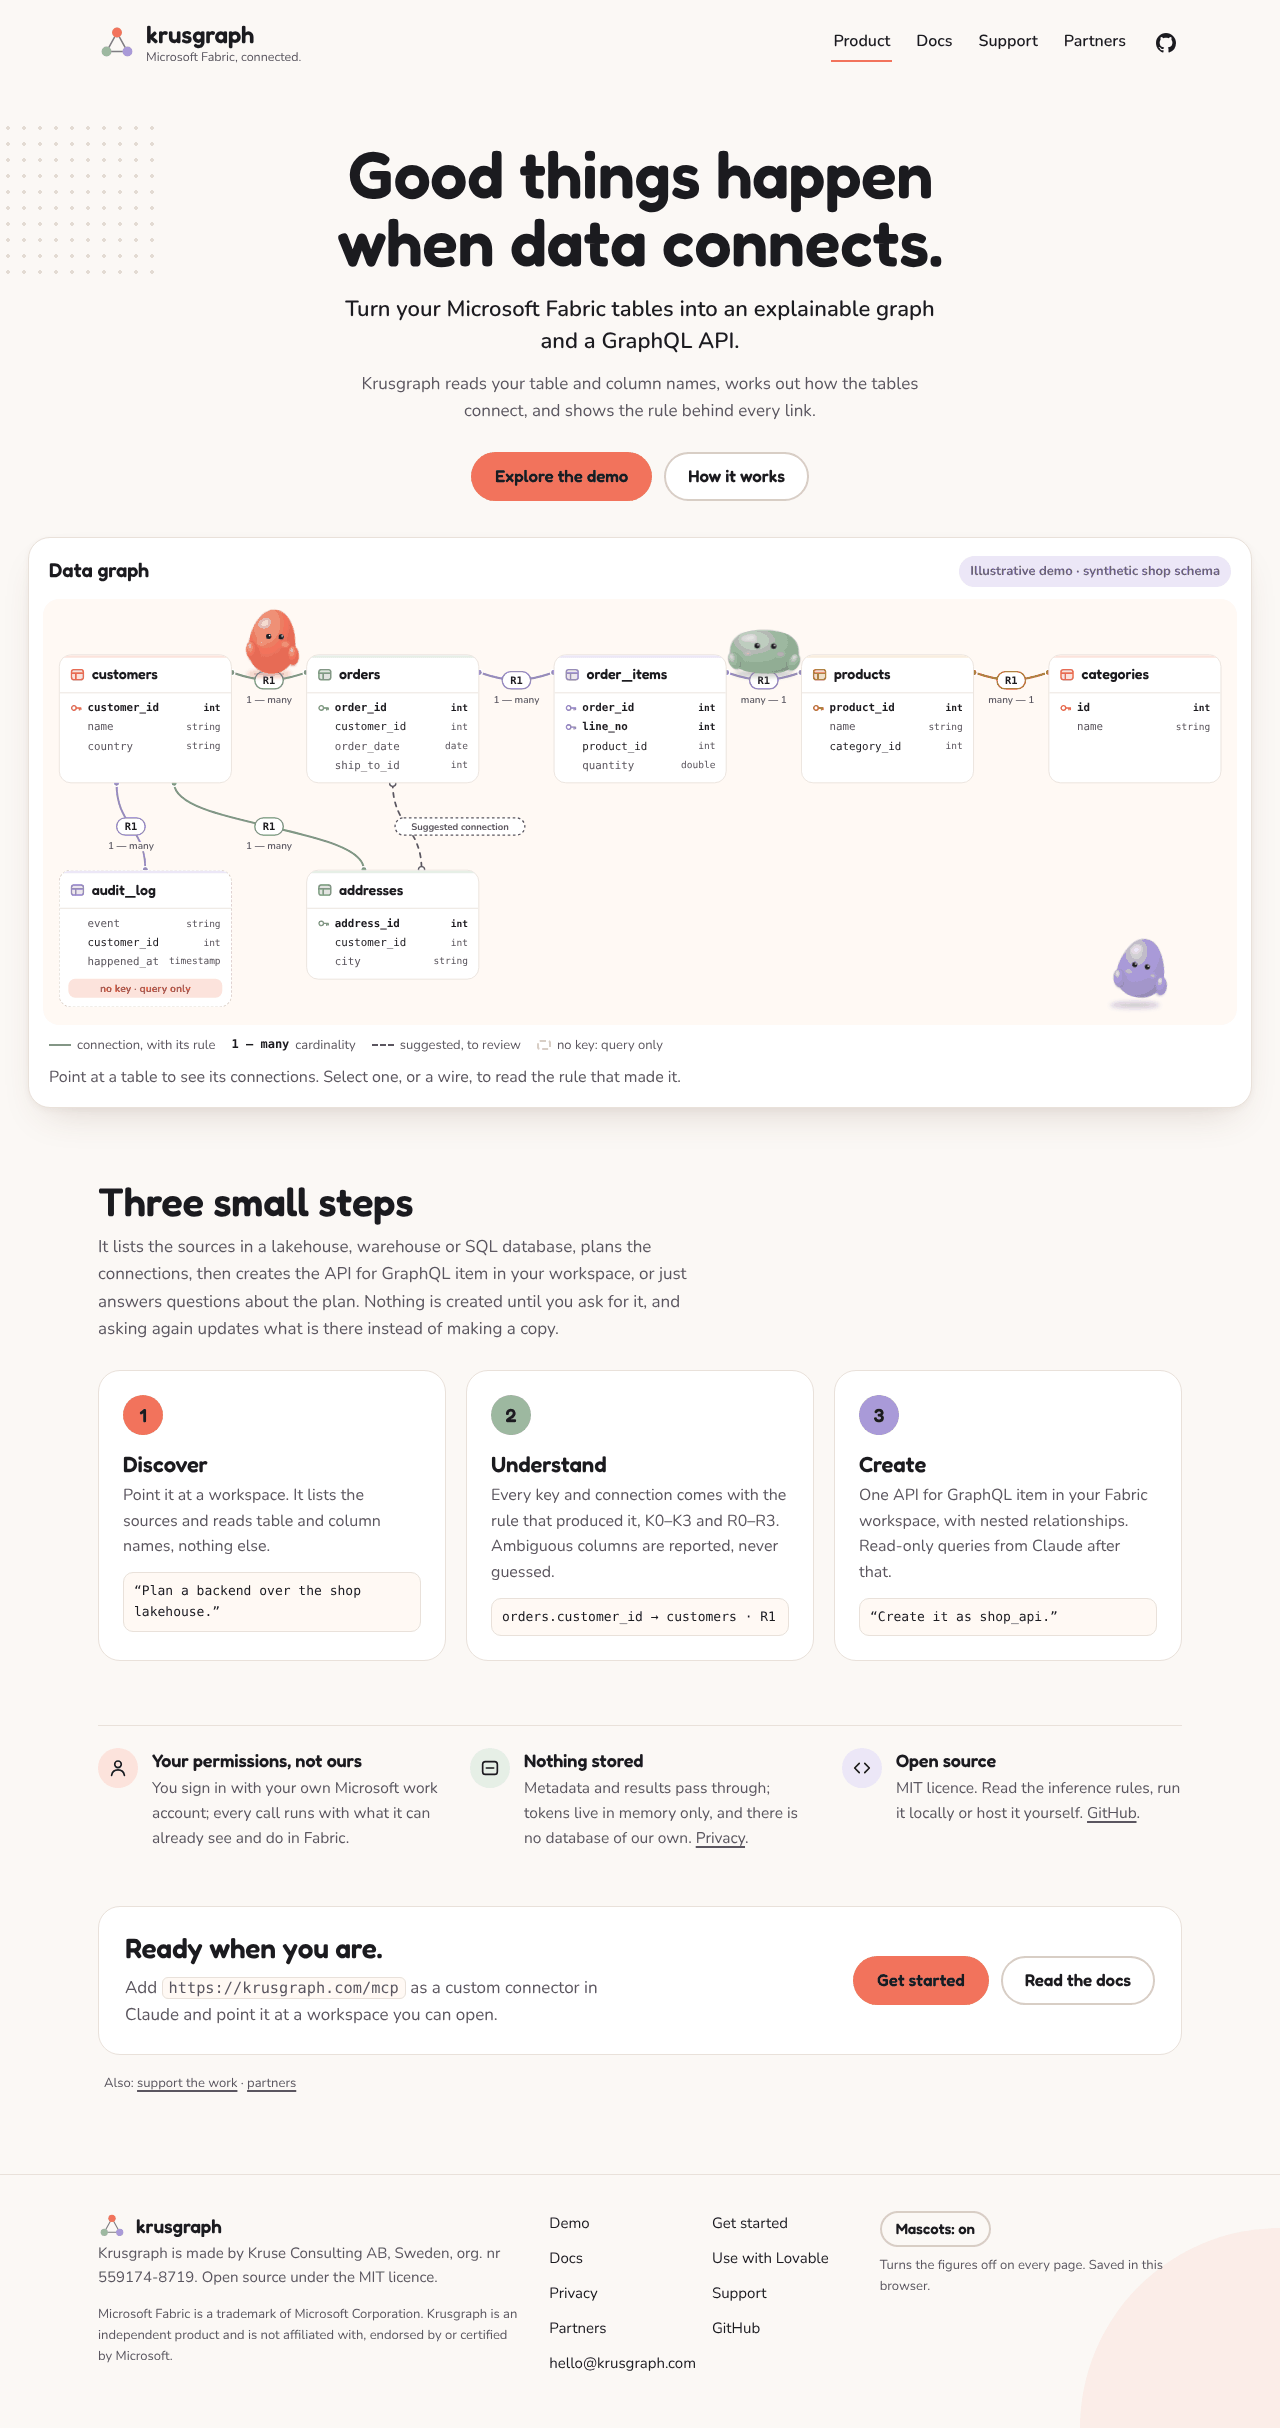
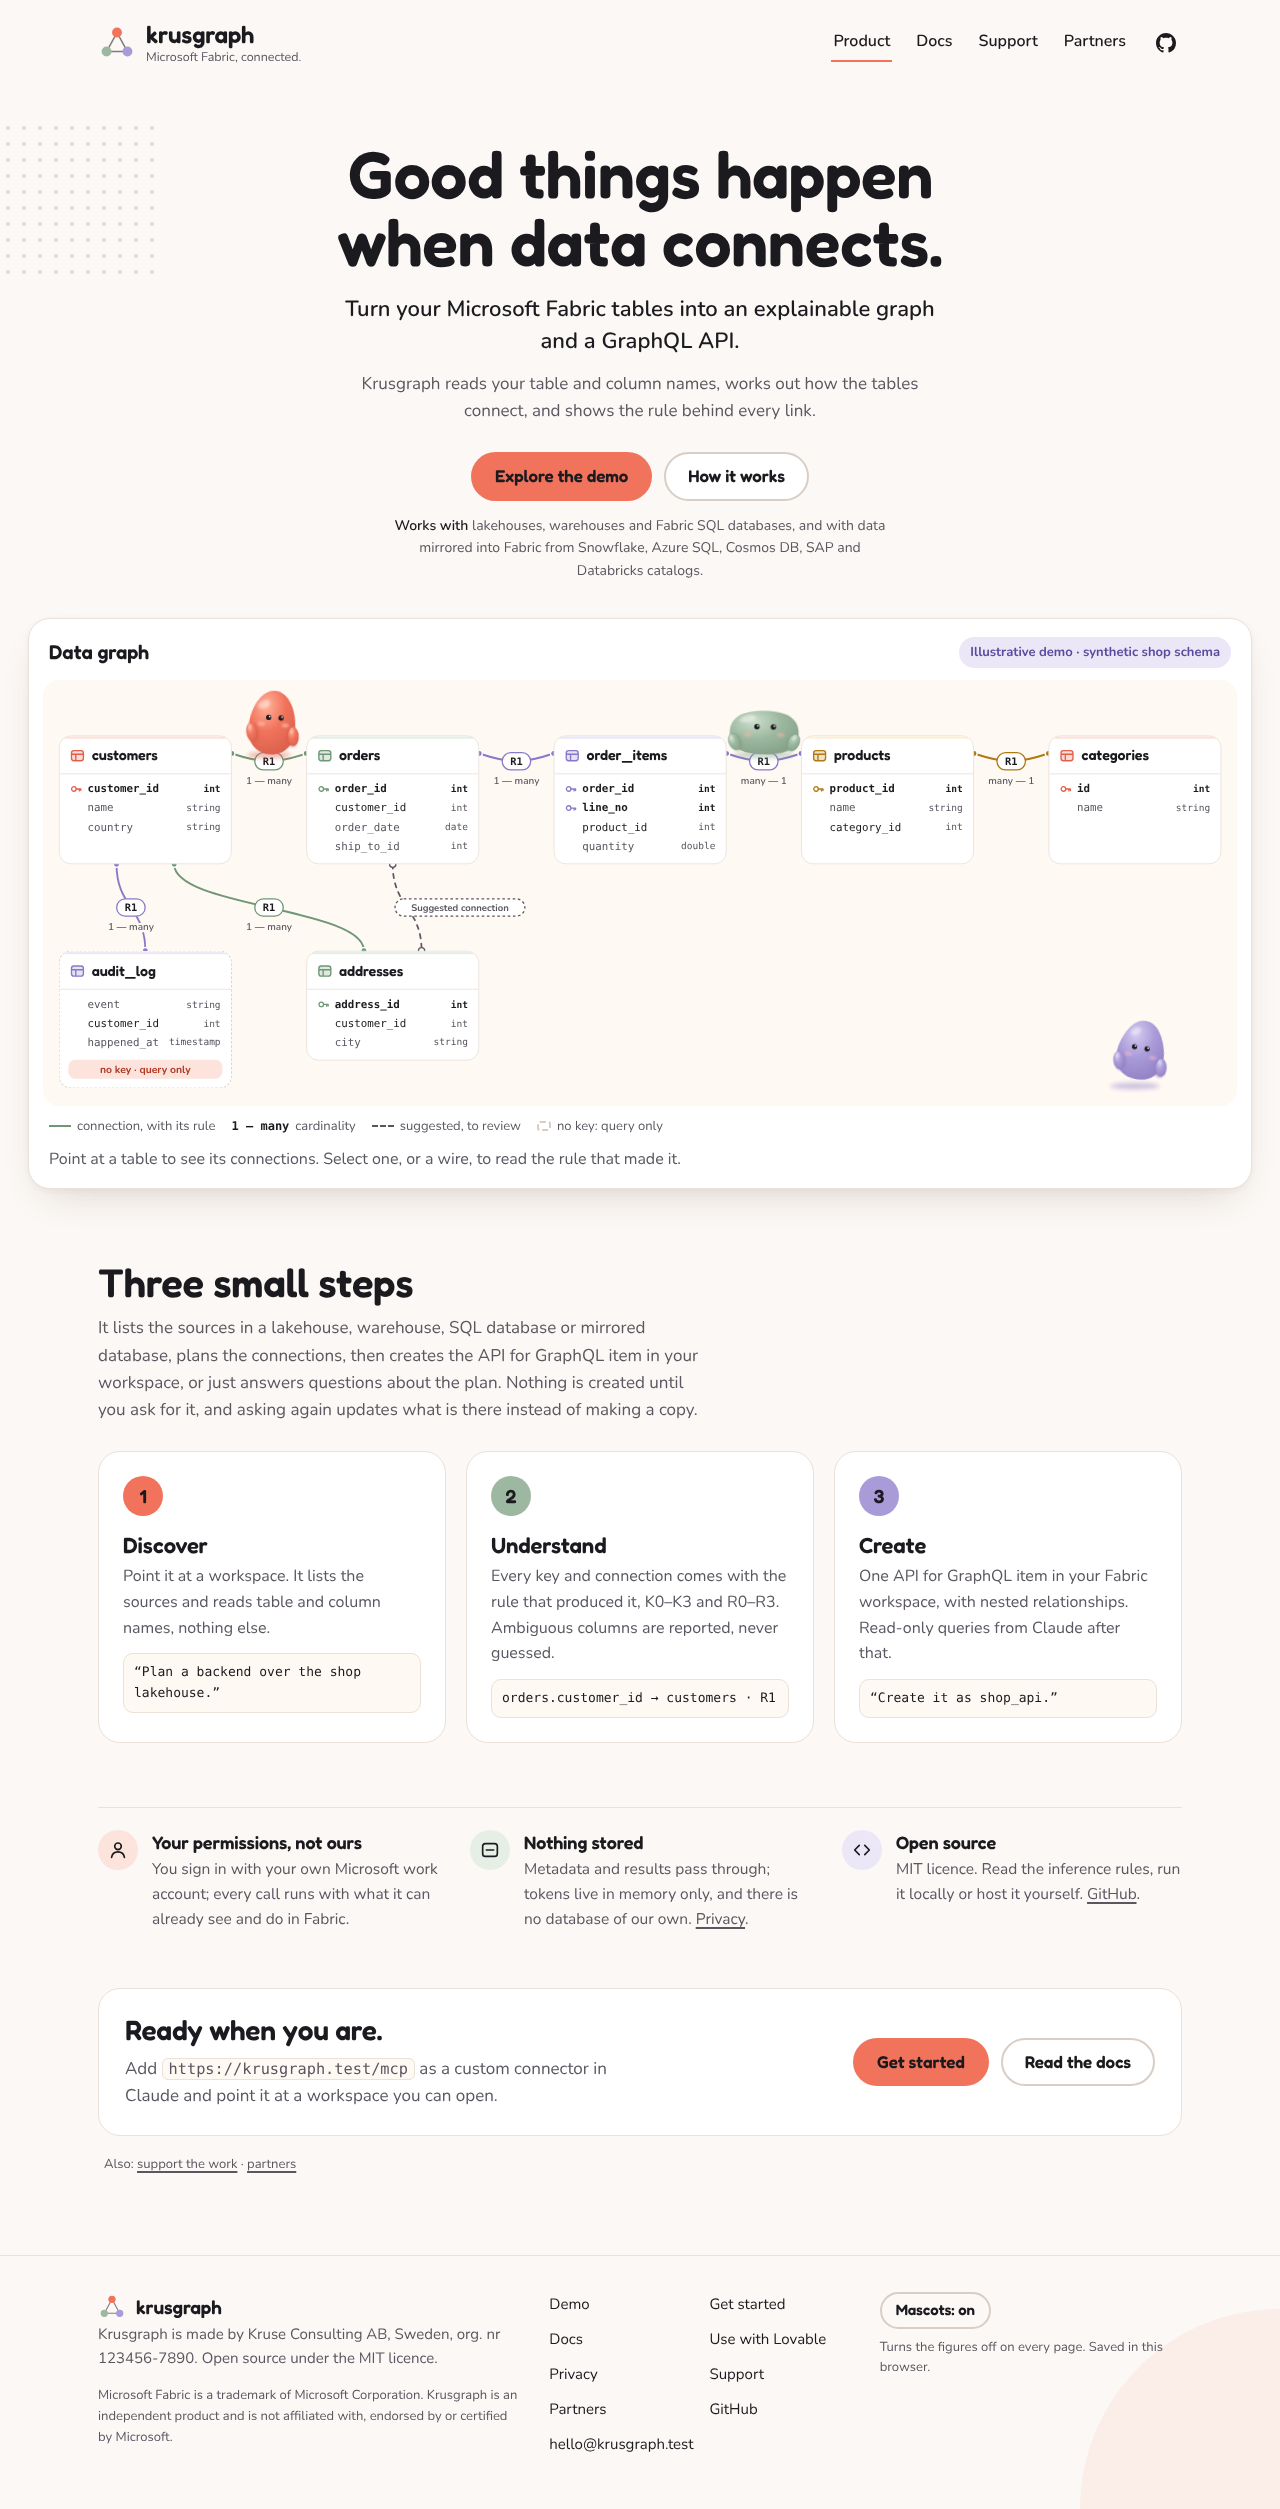
Home: sources line, and the graph scrolls inside its card on phones
The hero names what the connector works with (lakehouses, warehouses, Fabric
SQL databases, and data mirrored into Fabric from Snowflake, Azure SQL, Cosmos
DB, SAP and Databricks catalogs); the three-steps text says "or mirrored
database". On narrow screens the home graph, which stacks every table in one
lane, is capped at 68vh and scrolls inside its card with a soft fade and a link
to the full demo, so the landing page keeps its rhythm (4 638 → ~3 900 px at
390 wide). Browser checks green; home screenshots refreshed.

diff --git a/fabric_backend/page_templates/home.html b/fabric_backend/page_templates/home.html
@@ -8,6 +8,7 @@
       <a class="btn primary" href="/explore">Explore the demo</a>
       <a class="btn secondary" href="#how">How it works</a>
     </div>
+    <p class="sources-line"><b>Works with</b> lakehouses, warehouses and Fabric SQL databases, and with data mirrored into Fabric from Snowflake, Azure SQL, Cosmos DB, SAP and Databricks catalogs.</p>
   </div>
   <div class="wrap wide">
     <div class="graph-panel hero-panel">
@@ -18,6 +19,7 @@
       <div id="home-graph" class="graph"></div>
       <p class="legend"><span><i></i> connection, with its rule</span><span><b class="mono">1 — many</b> cardinality</span><span><i class="sug"></i> suggested, to review</span><span><i class="box"></i> no key: query only</span></p>
       <p id="home-why" class="why-line" aria-live="polite">Point at a table to see its connections. Select one, or a wire, to read the rule that made it.</p>
+      <p class="muted tiny graph-more">Scroll inside the graph, or <a href="/explore">open the full demo</a>.</p>
       <p class="muted tiny" style="margin:4px 6px 0" data-plan-error hidden>The demo plan could not be loaded. The graph needs JavaScript and <a href="/demo/plan.json">/demo/plan.json</a>.</p>
     </div>
   </div>
@@ -25,7 +27,7 @@
 
 <section class="wrap" id="how">
   <h2>Three small steps</h2>
-  <p class="intro">It lists the sources in a lakehouse, warehouse or SQL database, plans the connections, then creates the API for GraphQL item in your workspace, or just answers questions about the plan. Nothing is created until you ask for it, and asking again updates what is there instead of making a copy.</p>
+  <p class="intro">It lists the sources in a lakehouse, warehouse, SQL database or mirrored database, plans the connections, then creates the API for GraphQL item in your workspace, or just answers questions about the plan. Nothing is created until you ask for it, and asking again updates what is there instead of making a copy.</p>
   <ol class="steps">
     <li><span class="step-n coral">1</span><h3>Discover</h3><p>Point it at a workspace. It lists the sources and reads table and column names, nothing else.</p><span class="ex">“Plan a backend over the shop lakehouse.”</span></li>
     <li><span class="step-n sage">2</span><h3>Understand</h3><p>Every key and connection comes with the rule that produced it, K0–K3 and R0–R3. Ambiguous columns are reported, never guessed.</p><span class="ex">orders.customer_id → customers · R1</span></li>

diff --git a/fabric_backend/static/site.css b/fabric_backend/static/site.css
@@ -152,6 +152,12 @@ section{padding-top:40px;padding-bottom:40px}
 /* graph panel (home, explore, workspace): the one panel with a soft shadow */
 .graph-panel{background:var(--card);border-radius:var(--radius);box-shadow:var(--shadow);border:1px solid var(--line);padding:14px;position:relative}
 @media (max-width:719px){.graph-panel{padding:10px;border-radius:18px}}
+/* On a phone the home graph stacks every table in one lane; cap it so the landing page keeps its rhythm and let it scroll inside. */
+.graph-more{display:none}
+@media (max-width:719px){.hero-panel .graph:not(.zoomed){max-height:68vh;overflow:auto;touch-action:pan-y}.hero-panel .graph-more{display:block;margin:6px 6px 0}
+  .hero-panel .graph:not(.zoomed)::after{content:"";display:block;position:sticky;bottom:0;height:36px;margin-top:-36px;background:linear-gradient(to bottom,transparent,var(--card-2));pointer-events:none}}
+.sources-line{margin:14px auto 0;max-width:60ch;font-size:14px;color:var(--muted);text-align:center}
+.sources-line b{font-weight:600;color:var(--ink)}
 .graph-panel .panel-head{display:flex;align-items:center;justify-content:space-between;flex-wrap:wrap;gap:8px 16px;padding:4px 6px 12px}
 .graph-panel .panel-head h2,.graph-panel .panel-head h3{margin:0;font-size:20px}
 .graph{position:relative;overflow:hidden;background:var(--card-2);border-radius:16px;min-height:120px;touch-action:pan-y}
